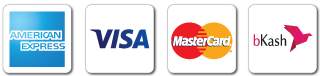
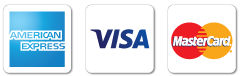
footer modify

diff --git a/index.html b/index.html
@@ -67,7 +67,7 @@
 	</div>	
 	<!-- // ********* CLOSE CAR ANIMATION & WELCOME ANIMATION SECTION ********* // -->
 	<!-- // ********* trainding part start ********* // -->
-	 	<div class="col-md-12 home-categories">
+	 	<!-- <div class="col-md-12 home-categories">
          	<div class="container">
             	<div class="row">		
 						<h1 class="top-heading mb-5">Trainding</h1>
@@ -82,20 +82,22 @@
 				<div class="my-card"><img src="Image/supercar1.jpg"></div>
 				<div class="my-card"><img src="Image/car-image-1.jpg"></div>
 			</div>
-		</div>
+		</div> -->
 	<!-- // ********* trainding part close ********* // -->
 	</section>		
 	<!-- // ********* Close Index ********* // -->
 
    <!-- About part start -->
    <section id="about">
-      <div class="container">
-         <div class="text-center service_header mt-5 mb-5">
-            <h1>About Us</h1>
+      <div class="col-md-12">
+         <div class="container">
+            <div class="row">		
+               <h1 class="top-heading mb-5">About</h1>
+            </div>
          </div>
       </div>
 
-      <div class="col-md-12 mt-5">
+      <div class="col-md-12">
          <div class="row">
             <div class="col-md-6">
                <img class="service_image" src="Image/service_head.png" alt="">
@@ -130,11 +132,13 @@
 
 
 
-       <!-- featured part start -->
+       <!-- shop part start -->
        <section id="cars">
-         <div class="container">
-            <div class="mt-5 mb-5 feature_header">
-               <h1>Shop</h1>
+         <div class="col-md-12">
+            <div class="container">
+               <div class="row">		
+                  <h1 class="top-heading mb-5">Shop</h1>
+               </div>
             </div>
          </div>
 

diff --git a/Css/style.css b/Css/style.css
@@ -612,6 +612,7 @@ h1.Footer_head {
     margin-top: 20px;
     margin-bottom: 20px;
 	text-align: center;
+	font-size: 32px;
 }
 .footer_first p{
 	font-size: 16px;
@@ -655,7 +656,7 @@ h1.Footer_head {
 	margin-left: 5px;
 }
 img.payment_pic {
-    width: 200px;
+    width: 115px;
 	margin-top: 10px;
 	margin-bottom: 40px;
 }
@@ -664,6 +665,10 @@ img.payment_pic {
 	text-align: center;
 	margin-top: 10px;
 	color: #ffffff;
+}
+.copyrightPart h3{
+	font-size: 18px;
+	margin-top: 21px;
 }
 
 .copyright_bg{
